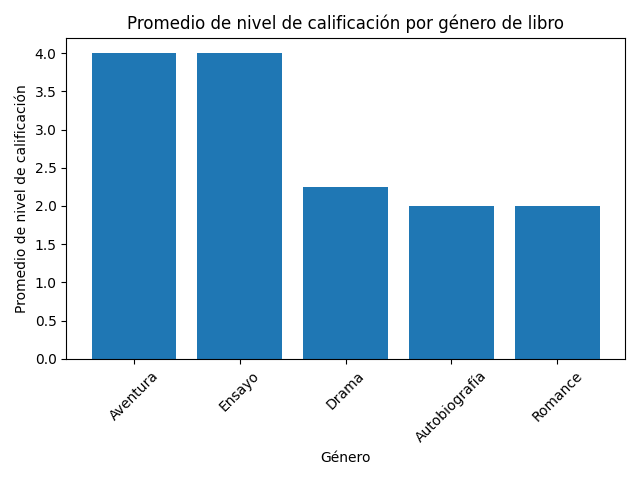
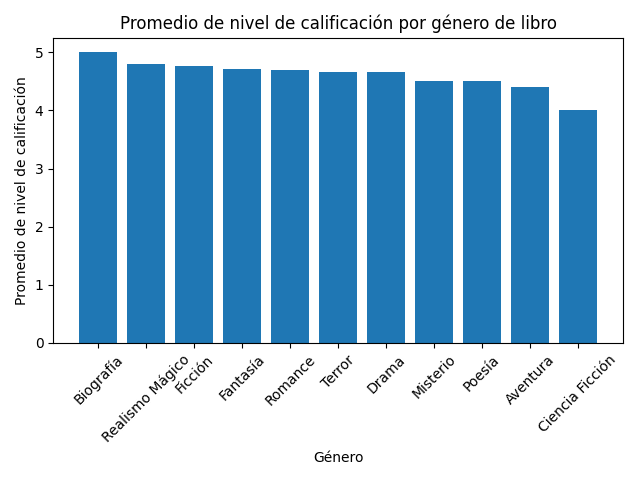
Cambie valoraciones

diff --git a/valoraciones.py b/valoraciones.py
@@ -29,33 +29,62 @@ def promedio_por_autor():
         'autor__nombre', 'calificacion__nivel'
     )
     df = pd.DataFrame(list(libros))
-    promedio = df.groupby('autor__nombre')['calificacion__nivel'].mean().sort_values(ascending=False)
+    promedio = df.groupby('autor__nombre')['calificacion__nivel'].mean().sort_values(ascending=False).head(10)
     plt.bar(promedio.index, promedio.values)
     plt.xlabel('Autor')
     plt.ylabel('Promedio de nivel de calificación')
-    plt.title('Promedio de nivel de calificación por autor')
+    plt.title('Top 10: Promedio de nivel de calificación por autor')
     plt.xticks(rotation=45)
     plt.tight_layout()
-    plt.savefig('promedio_nivel_por_autor.png')
-    plt.close()  # <-- Esto cierra la figura
-    # plt.show()
+    plt.savefig('top_10_promedio_nivel_por_autor.png')
+    plt.close()
+
+def promedio_calificacion_por_nacionalidad():
+    # Obtener los libros con la nacionalidad del autor y su nivel de calificación
+    libros = Libro.objects.select_related('autor', 'calificacion').values(
+        'autor__nacionalidad', 'calificacion__nivel'
+    )
+    df = pd.DataFrame(list(libros))
+
+    if df.empty:
+        print("No se encontraron datos.")
+        return
+
+    # Agrupar por nacionalidad y calcular el promedio de calificación
+    promedio = df.groupby('autor__nacionalidad')['calificacion__nivel'].mean().sort_values(ascending=False)
+
+    # Crear el gráfico
+    plt.figure(figsize=(12, 6))
+    plt.bar(promedio.index, promedio.values)
+    plt.xlabel('Nacionalidad')
+    plt.ylabel('Promedio de calificación')
+    plt.title('Promedio de calificación por nacionalidad de los autores')
+    plt.xticks(rotation=45, ha='right')
+    plt.tight_layout()
+    plt.savefig('promedio_calificacion_por_nacionalidad.png')
+    plt.close()
+
 def libros_por_anio():
     libros = Libro.objects.values('fecha_lanzamiento', 'nombre')
     df = pd.DataFrame(list(libros))
     # Extraer el año de la fecha de lanzamiento
-    df['anio'] = pd.to_datetime(df['fecha_lanzamiento']).dt.year
-    conteo = df['anio'].value_counts().sort_index()
-    plt.bar(conteo.index.astype(str), conteo.values)
-    plt.xlabel('Año de lanzamiento')
+    df['anio'] = pd.to_datetime(df['fecha_lanzamiento'], errors='coerce').dt.year
+    df['decada'] = (df['anio'] // 10) * 10  # Agrupar por década
+    conteo_decadas = df['decada'].value_counts().sort_index()
+    plt.figure(figsize=(12, 6))
+    plt.bar(conteo_decadas.index.astype(str), conteo_decadas.values)
+    plt.xlabel('Década')
     plt.ylabel('Cantidad de libros')
-    plt.title('Cantidad de libros publicados por año')
+    plt.title('Cantidad de libros publicados por década')
     plt.xticks(rotation=45)
     plt.tight_layout()
-    plt.savefig('libros_por_anio.png')
+    plt.savefig('libros_por_decada.png')
     plt.close()
-
 if __name__ == "__main__":
     promedio_por_autor()
+
+if __name__ == "__main__":
+    promedio_calificacion_por_nacionalidad()
 
 if __name__ == "__main__":
     promedio_por_genero()
